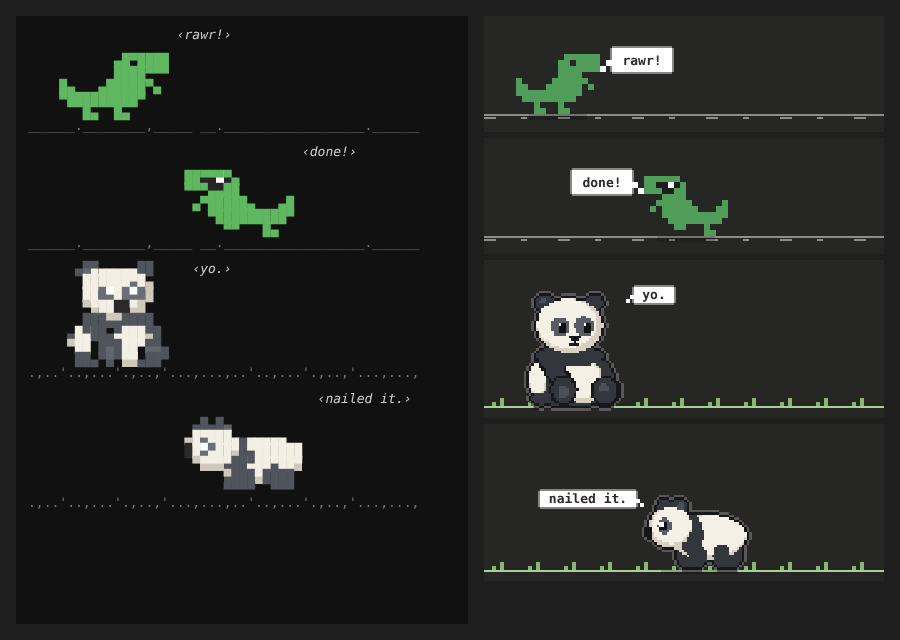
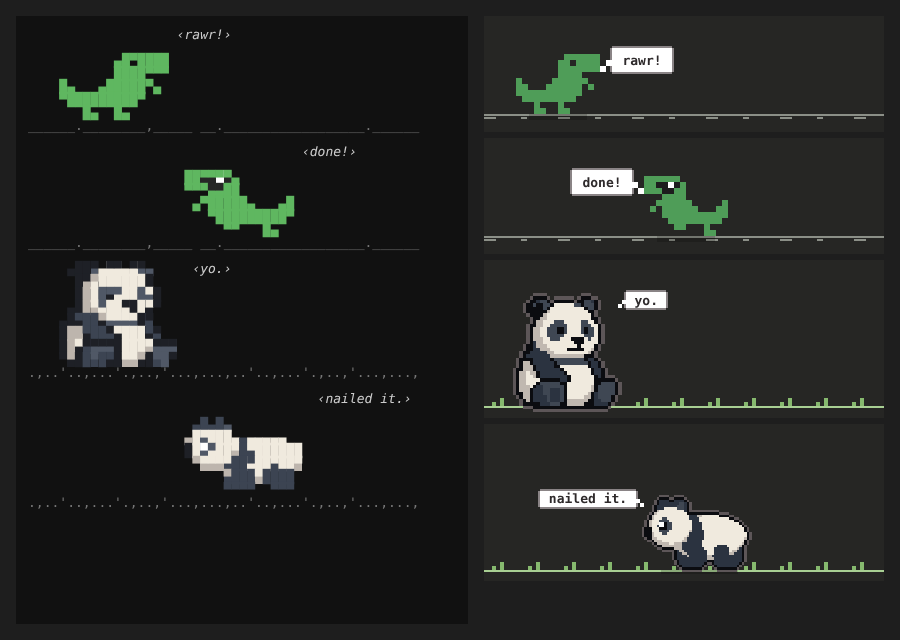
buddy: sitting panda from pixel art
The sitting pose is now the art in art/sit.png, read in as a sprite, with
blinking, shades, chewing and bamboo drawn over it in code. The palette
of the shape poses is matched to the art.

Claude-Session: https://claude.ai/code/session_01FB6BJrRqbn2oSwVncdYdDf

diff --git a/plugins/buddy/hooks/panda.ts b/plugins/buddy/hooks/panda.ts
@@ -1,5 +1,5 @@
 import type { Scene } from '../types'
-import { bubbleSvg, halfBlocks, mirror, outline, pick, pixels, shadowSvg, svgOpen } from './shared'
+import { bubbleSvg, halfBlocks, mirror, outline, pick, pixels, put, shadowSvg, svgOpen } from './shared'
 import type { Character } from './shared'
 
 // The panda, in three chunky poses: sitting up (idle, munching, shades on,
@@ -15,7 +15,7 @@ type Shape =
   | { c: string; r: [x: number, y: number, w: number, h: number] }
   | { c: string; p: [x: number, y: number][] }
 
-type Pose = { w: number; h: number; shapes: Shape[] }
+type Pose = { w: number; h: number; shapes: Shape[] } | { w: number; h: number; sprite: string[] }
 
 const ell = (c: string, cx: number, cy: number, rx: number, ry: number): Shape => ({ c, e: [cx, cy, rx, ry] })
 const rect = (c: string, x: number, y: number, w: number, h: number): Shape => ({ c, r: [x, y, w, h] })
@@ -27,78 +27,86 @@ const furBall = (cx: number, cy: number, rx: number, ry: number): Shape[] => [
   ell('W', cx - rx * 0.08, cy - ry * 0.1, rx * 0.92, ry * 0.9),
 ]
 
+// The sitting panda is hand-drawn pixel art (art/sit.png), facing right.
+// E outline and eyes, K dark fur, k lighter dark fur, W white fur, S shaded white fur
+const SIT = [
+  '.....EEEE..........EEE........',
+  '....EEKkkE.EEEEEE.EEkkKE......',
+  '...EEkEEkkEWWWWWWkkEkkkE......',
+  '...EEEEEkEWWWWWWWWWWEkkE......',
+  '...EEEEEESWWWWWWWWWWWEE.......',
+  '....EEEESWWWWWWWWWWWWWE.......',
+  '.....EESSWWWWWWWWWWWWWEE......',
+  '.....ESSWWWkkkWWWWWkkWWE......',
+  '....EESSWWkkkkkWWWWkkkWWE.....',
+  '....ESSWWkkkEEkWWWWkEkkWE.....',
+  '....ESSWWkkkEEkWWWWkEkkWE.....',
+  '....ESSWWkkkkkWWWWWWkkkWE.....',
+  '....ESSSWWkkkWWWEEEEWkWWE.....',
+  '....EKSSWWWWWWWWWEEEWWWWE.....',
+  '...EEKSSSWWWWWWWWWEWWWWE......',
+  '...EEKKSSSWWWWWEEEEEWWSE......',
+  '..EEKKKKKSSWWWWWWWWWWSE.......',
+  '..EKKKKKKKSSSSSSSSSSEEE.......',
+  '.EEEEKKKKKEkkkkkkkkkEKKE......',
+  '.ESSEKKKKKKEkkkkkkkkkEKKE.....',
+  '.ESSSEKKKKKEEWWWWWWWWEKKE.....',
+  'EESSSEKKKKKKKEWWWWWWWWEKKE....',
+  'ESSWSSEKKKKKKKEWWWWWWWEKKE....',
+  'ESSWWSEKKKKKKKKEWWWWWWWEKE....',
+  'ESSWWWWEEEEEEKKEWWWWWWWEEEEEE.',
+  'ESSWWWEkkkkkkEEWWWWWWWWEEkkkkE',
+  'ESSSWEKKkkkkkkEWWWWWWWSEkkkkkE',
+  'ESSSEKKKkkKKKkEWWWWWWWSEkkkkkE',
+  'EESSEKKKkkKKKkEWWWWWWSEKkkkkkE',
+  '.ESSEKKKKkKKKkEWWWWWSSEKkkkkE.',
+  '..ESEKKKKkKKKkESSSSSSEEKKkkkE.',
+  '..EEEEEKKKkkkEESSSSSEEEKKKKE..',
+  '.....EEEEEEEEEEEEEEEEEEEEEE...',
+]
+const SIT_W = SIT[0]?.length ?? 0
+const SIT_H = SIT.length
+
 function sitting(s: Scene): Pose {
-  // Three-quarter view, turned towards where it faces (drawn facing right).
-  // A pear-shaped silhouette, wider at the bottom than the head: dark fur
-  // with a collar across the chest, an arm running down the middle, a white
-  // belly on the facing side and a white hip on the back edge
-  // The big front foot bulging out on the facing side, outlined against the body
-  const frontFoot = [ell('O', 21.6, 24.4, 3.6, 3.7), ell('K', 21.6, 24.4, 3, 3.2), ell('k', 21.2, 23.6, 1.2, 1)]
-  const shapes: Shape[] = [
-    // Dark body
-    ell('K', 13, 21.4, 10.6, 7.2),
-    // The white hip on the back edge, with the back foot under it
-    ell('S', 4.8, 21.6, 2.3, 4.3),
-    ell('W', 4.7, 21.2, 2, 3.9),
-    ell('K', 5.6, 26.3, 2.4, 1.6),
-    // The white belly on the facing side
-    ...furBall(16, 21.9, 5, 5.7),
-    // The arm's sheen, and the leg block in the middle with a lighter pad
-    // The arm, its own outlined shape, running from the shoulder down to the
-    // hand resting against the hip
-    ell('O', 7.6, 16.8, 3, 2.8),
-    ell('O', 9, 19.1, 3, 2.8),
-    ell('O', 10.2, 21.3, 2.9, 2.5),
-    ell('K', 7.6, 16.8, 2.4, 2.2),
-    ell('K', 9, 19.1, 2.4, 2.2),
-    ell('K', 10.2, 21.3, 2.3, 1.9),
-    // The leg block in the middle, outlined against the body, with a pad
-    ell('O', 11.2, 24.3, 3.5, 3.8),
-    ell('K', 11.2, 24.3, 2.9, 3.3),
-    ell('k', 11.2, 24.7, 1.3, 1.8),
-    // The big front foot, bulging out on the facing side
-    ...(s.isMunching ? [] : frontFoot),
-    // The collar across the chest, under the head
-    // A broad neck: the collar as wide as the head, its sides running
-    // straight down into the body
-    ell('K', 12.8, 15.8, 8.4, 2.6),
-    rect('K', 5, 14.6, 15.6, 3.2),
-    // Ears at the top corners of the head
-    ell('K', 6.6, 2.6, 2.4, 2.2),
-    ell('K', 18.8, 2.4, 2.2, 2.1),
-    ell('k', 6, 2, 0.8, 0.7),
-    // A round head, a bit narrower than the body
-    ...furBall(12.8, 8.2, 8.2, 6.8),
-    // Eye patches, close together
-    ell('P', 10.4, 8.4, 2.3, 2.4),
-    ell('P', 16.4, 8.3, 2.4, 2.5),
-    // A small triangle nose under the gap between the eyes, a short stroke
-    // and a straight mouth line: calm and content
-    rect('N', 12.3, 10.8, 3, 0.7),
-    rect('N', 12.9, 11.5, 1.8, 0.6),
-    rect('N', 13.5, 12.1, 0.6, 0.7),
-    rect('N', 12.5, 12.8, 2.6, 0.6),
-  ]
-  if (s.isAsleep || s.isBlinking) shapes.push(rect('L', 9, 8.8, 2.8, 0.6), rect('L', 15, 8.8, 2.8, 0.6))
-  else if (s.isHappy) {
-    // Shades on
-    shapes.push(rect('B', 7.8, 6.8, 5, 3.4), rect('B', 13.8, 6.8, 5.2, 3.4), rect('B', 12.8, 7.2, 1, 0.8))
-    shapes.push(rect('B', 6, 7.2, 1.8, 0.8), rect('B', 19, 7.2, 1.6, 0.8))
-    shapes.push(rect('w', 8.6, 7.4, 0.6, 0.6), rect('w', 14.6, 7.4, 0.6, 0.6))
-  } else {
-    // Big soft pupils, each with a tiny glint
-    shapes.push(rect('E', 10.2, 7.6, 1.9, 2.2), rect('E', 16.4, 7.5, 2, 2.3))
-    shapes.push(rect('w', 10.3, 7.7, 0.6, 0.6), rect('w', 16.5, 7.6, 0.6, 0.6))
+  const rows = [...SIT]
+  const set = (r: number, c0: number, c1: number, ch: string) => {
+    for (let c = c0; c <= c1; c++) put(rows, r, c, ch)
   }
-  if (s.chew) shapes.push(rect('R', 13.1, 12.8, 1.2, 0.7))
+  if (s.isAsleep || s.isBlinking) {
+    // Pupils gone, a lighter line across each patch
+    set(9, 12, 13, 'k')
+    set(10, 12, 13, 'k')
+    set(9, 20, 20, 'k')
+    set(10, 20, 20, 'k')
+    set(10, 10, 13, 'L')
+    set(10, 19, 22, 'L')
+  } else if (s.isHappy) {
+    // Shades on: two lenses, a bridge, and arms out to the ears
+    for (let r = 8; r <= 10; r++) {
+      set(r, 8, 14, 'B')
+      set(r, 17, 22, 'B')
+    }
+    set(9, 15, 16, 'B')
+    set(9, 6, 7, 'B')
+    put(rows, 9, 23, 'B')
+    put(rows, 8, 9, 'w')
+    put(rows, 8, 18, 'w')
+  }
+  if (s.chew) set(16, 16, 18, 'R')
   if (s.isMunching) {
-    // A stalk of bamboo held up in front, leaves at the top
-    shapes.push(rect('G', 21, 5, 1.8, 22), px('g', [21, 10], [21.8, 18]))
-    shapes.push(ell('g', 23.6, 5.4, 2, 0.9), ell('g', 19.6, 6.2, 1.8, 0.8))
-    shapes.push(ell('K', 21, 17.4, 2.6, 2.2), ell('k', 20.4, 16.8, 0.8, 0.6))
-    shapes.push(...frontFoot)
+    // A stalk of bamboo held up in the near paw, leaves at the top
+    for (let r = 5; r <= 23; r++) set(r, 24, 25, 'G')
+    put(rows, 10, 24, 'g')
+    put(rows, 17, 25, 'g')
+    set(4, 26, 28, 'g')
+    set(5, 21, 23, 'g')
+    set(18, 22, 26, 'E')
+    set(19, 22, 26, 'K')
+    set(20, 22, 26, 'K')
+    set(21, 22, 26, 'K')
+    set(22, 22, 26, 'E')
   }
-  return { w: 26, h: 28, shapes }
+  return { w: SIT_W, h: SIT_H, sprite: rows }
 }
 
 function walking(s: Scene): Pose {
@@ -160,8 +168,51 @@ function pose(s: Scene): Pose {
   return sitting(s)
 }
 
+// Scale a sprite to another size: nearest neighbour when growing, a majority
+// vote over the covered cells when shrinking, so thin lines don't vanish
+function scaleSprite(sprite: string[], scale: number): string[] {
+  const H = sprite.length
+  const W = sprite[0]?.length ?? 0
+  const outH = Math.max(1, Math.round(H * scale))
+  const outW = Math.max(1, Math.round(W * scale))
+  const out: string[] = []
+  for (let y = 0; y < outH; y++) {
+    let line = ''
+    const y0 = Math.floor((y * H) / outH)
+    const y1 = Math.max(y0 + 1, Math.floor(((y + 1) * H) / outH))
+    for (let x = 0; x < outW; x++) {
+      const x0 = Math.floor((x * W) / outW)
+      const x1 = Math.max(x0 + 1, Math.floor(((x + 1) * W) / outW))
+      const votes = new Map<string, number>()
+      for (let yy = y0; yy < y1; yy++)
+        for (let xx = x0; xx < x1; xx++) {
+          const ch = sprite[yy]?.[xx] ?? '.'
+          votes.set(ch, (votes.get(ch) ?? 0) + 1)
+        }
+      let best = '.'
+      let bestN = -1
+      for (const [ch, n] of votes) {
+        // Prefer a coloured cell over a transparent one on a tie
+        if (n > bestN || (n === bestN && best === '.')) {
+          best = ch
+          bestN = n
+        }
+      }
+      line += best
+    }
+    out.push(line)
+  }
+  return out
+}
+
+// Turn a pose into rows of pixels at the given scale
+function render(p: Pose, scale: number, withOutline: boolean): string[] {
+  if ('sprite' in p) return scaleSprite(p.sprite, scale)
+  return paint(p, scale, withOutline)
+}
+
 // Paint the shapes onto a grid, scaled, and optionally ring it with outline
-function paint(p: Pose, scale: number, withOutline: boolean): string[] {
+function paint(p: { w: number; h: number; shapes: Shape[] }, scale: number, withOutline: boolean): string[] {
   const W = Math.ceil(p.w * scale)
   const H = Math.ceil(p.h * scale)
   const grid = Array.from({ length: H }, () => Array<string>(W).fill('.'))
@@ -212,33 +263,33 @@ const TERM_W = 16
 const TERM_ROWS = 16 // pixel rows, two per text row
 
 const TERM = {
-  K: '#50545c',
-  k: '#62666f',
-  P: '#6a6e78',
-  E: '#1e1e1e',
-  W: '#f3efe4',
-  S: '#cfc9bb',
+  E: '#1e2026',
+  K: '#3c4452',
+  k: '#505866',
+  P: '#505866',
+  W: '#f0eade',
+  S: '#bdb5ad',
   w: '#ffffff',
-  N: '#2a2a2a',
-  L: '#9a9a9a',
-  B: '#1c1c1c',
+  N: '#1e2026',
+  L: '#9aa0a8',
+  B: '#101216',
   R: '#a04a5a',
   G: '#7bc96f',
   g: '#a5dc8f',
 }
 
 const SVG = {
-  O: '#16171b',
-  K: '#33363d',
-  k: '#4b4f58',
-  P: '#585c66',
-  E: '#0e0f12',
-  W: '#f4f0e5',
-  S: '#d7d0c1',
+  O: '#0b0c10',
+  E: '#0b0c10',
+  K: '#2b3340',
+  k: '#3f4753',
+  P: '#3f4753',
+  W: '#f0eade',
+  S: '#c0b8b0',
   w: '#ffffff',
-  N: '#16171b',
-  L: '#2a2c31',
-  B: '#0e0f12',
+  N: '#0b0c10',
+  L: '#8a9099',
+  B: '#07080a',
   R: '#9c3f52',
   G: '#5fae45',
   g: '#93d07a',
@@ -251,7 +302,8 @@ const PX = 2.5 // ...with smaller pixels, so the panda keeps its size
 const UNIT = 4 // grass, shadow and speech bubble keep chunkier pixels
 const CELL = 8
 const LIFT = 5
-const TALLEST = Math.ceil(28 * DESK_SCALE) + 2 // the sitting pose, with its outline
+const SIT_HEIGHT = Math.ceil(28 * DESK_SCALE) // rows the sitting pose is drawn at
+const TALLEST = SIT_HEIGHT + 2 // with its outline
 
 function react(text: string): string {
   const t = text.toLowerCase()
@@ -274,7 +326,7 @@ export const panda: Character = {
     for (let i = 0; i < cols; i++) ground += GRASS[i % GRASS.length]
     const p = pose(s)
     // Scale down to the terminal, narrower still for a pose too wide to fit
-    const sp = mirror(paint(p, Math.min(TERM_SCALE, TERM_W / p.w, TERM_ROWS / p.h), false), s.dir)
+    const sp = mirror(render(p, Math.min(TERM_SCALE, TERM_W / p.w, TERM_ROWS / p.h), false), s.dir)
     // Feet on the bottom row, lifted while jumping as far as the band allows
     const lift = Math.min(s.air, TERM_ROWS - sp.length)
     return {
@@ -285,13 +337,17 @@ export const panda: Character = {
   },
 
   svg(s, cols) {
-    const sp = mirror(paint(pose(s), DESK_SCALE, true), s.dir)
+    const p = pose(s)
+    // A sprite pose is drawn at whatever pixel size makes it as tall as the
+    // sitting pose was; the shape poses keep PX
+    const px = 'sprite' in p ? (SIT_HEIGHT * PX) / p.h : PX
+    const sp = mirror(render(p, 'sprite' in p ? 1 : DESK_SCALE, true), s.dir)
     const w = cols * CELL
-    const size = (sp[0]?.length ?? 0) * PX
+    const size = (sp[0]?.length ?? 0) * px
     const groundY = TALLEST * PX + 4 * LIFT + 2 * UNIT
     const h = groundY + 3 * UNIT
     const ox = s.x * CELL
-    const oy = groundY - sp.length * PX + PX - s.air * LIFT
+    const oy = groundY - sp.length * px + px - s.air * LIFT
 
     const grass: string[] = []
     for (let i = 0; i < w; i += 9 * UNIT) {
@@ -308,8 +364,8 @@ export const panda: Character = {
       grass.join('') +
       shadowSvg(s, ox, size, groundY, UNIT) +
       // A faint light rim so the dark outline still reads on a dark background
-      outline(sp, ox, oy, PX, '#5d5658') +
-      pixels(sp, ox, oy, PX, SVG) +
+      outline(sp, ox, oy, px, '#5d5658') +
+      pixels(sp, ox, oy, px, SVG) +
       bubbleSvg(s, ox, oy, size, w, UNIT) +
       `</svg>`
     )

diff --git a/plugins/buddy/README.md b/plugins/buddy/README.md
@@ -42,3 +42,7 @@ claude plugin test plugins/buddy
 ```
 
 Characters live in `hooks/dino.ts` and `hooks/panda.ts`; the engine is `hooks/register.tsx`.
+
+## Art
+
+The sitting panda is pixel art in `art/sit.png` (30 × 33, facing right), turned into the `SIT` rows in `hooks/panda.ts`. Blinking, sunglasses, chewing and the bamboo are drawn over it in code. The walking and sleeping poses are still built from shapes.
